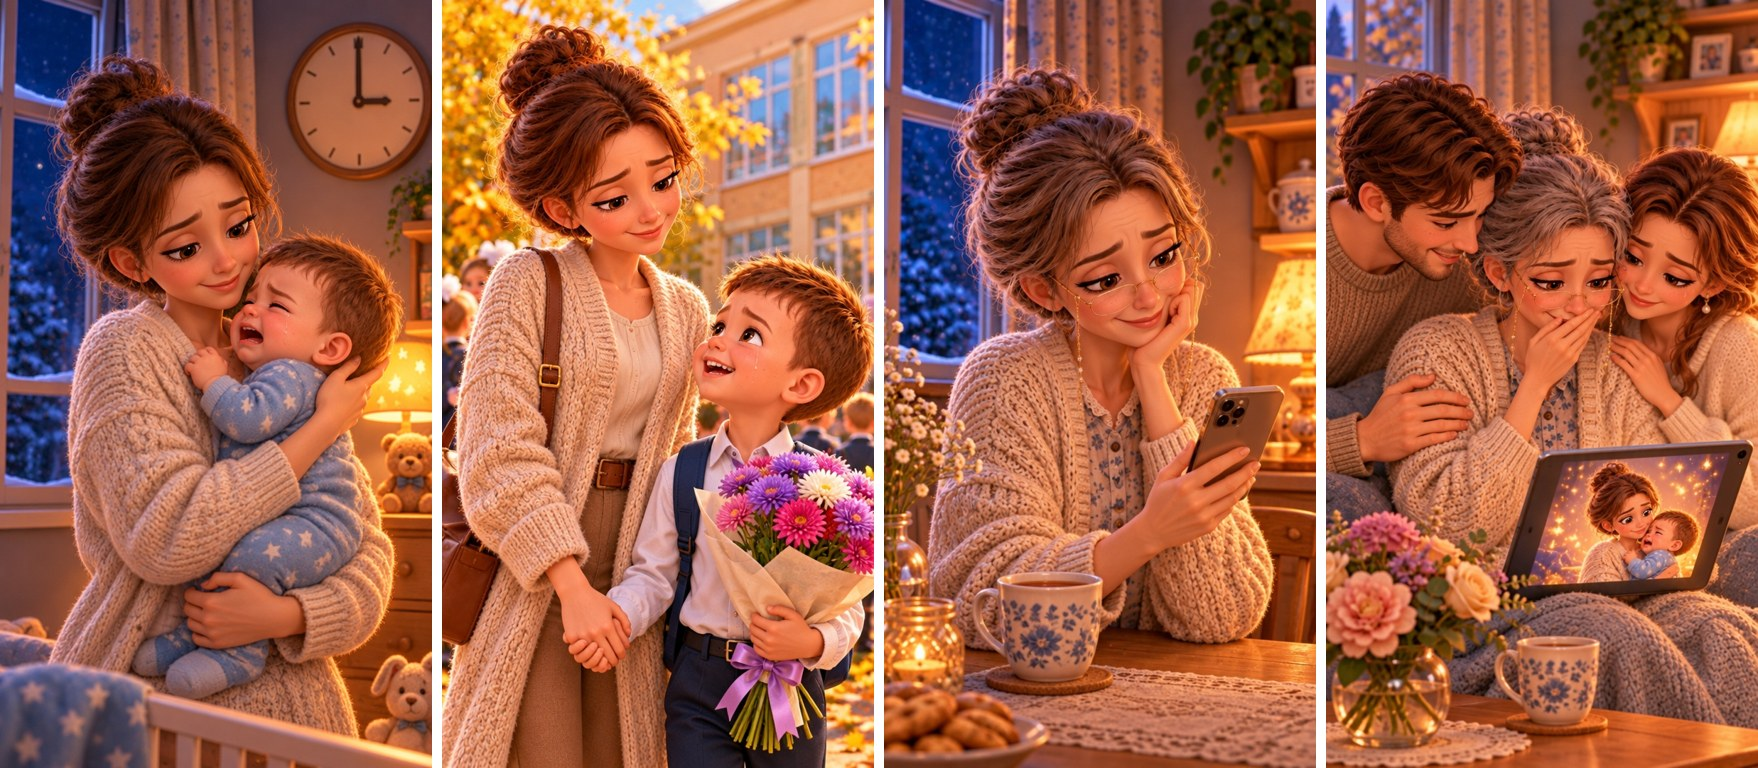
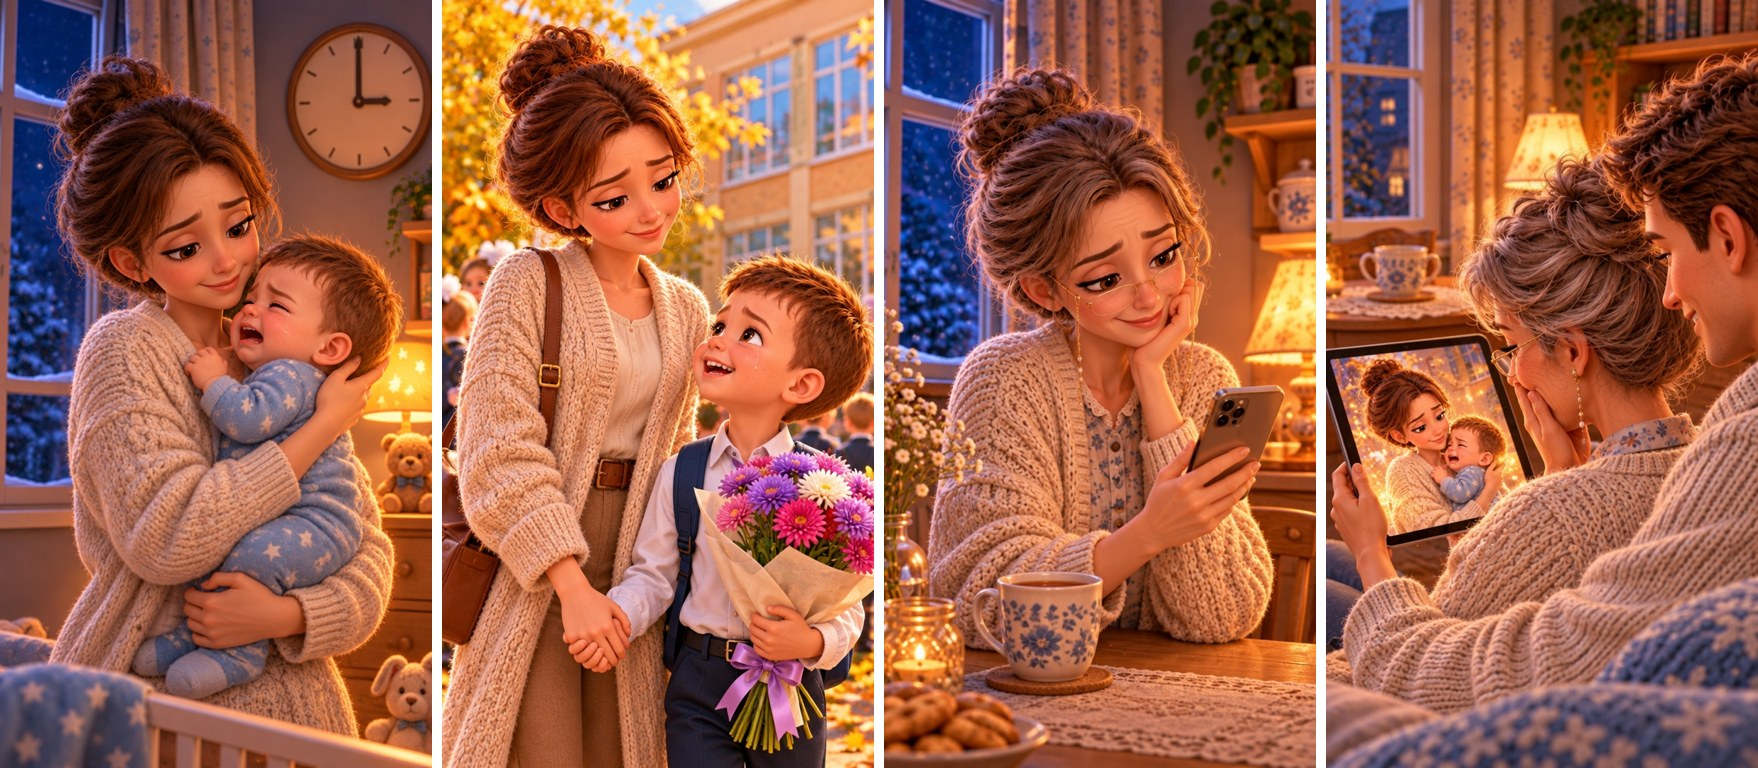
День матери: кадр 4 из-за плеча, только сын
Claude-Session: https://claude.ai/code/session_01TXwNN2je3RbbmpXYz6m2NX

Changed region(s): [[0.7372, 0.0, 1.0, 1.0]]

diff --git a/den-materi/kadry.py b/den-materi/kadry.py
@@ -13,12 +13,10 @@ S={
      "happy tears in her eyes. School building and yellow trees behind. ",
 "03":"Evening, cozy kitchen, the same mother but clearly OLDER, about 60: mostly silver-grey hair in a bun, visible wrinkles around eyes and mouth, reading glasses on a chain, sits alone by the window with a "
      "cup of tea, holding her phone, looking at it hopefully, waiting for a call. Soft melancholic warm light. ",
-"04":"Cozy living room decorated for a family celebration: the same mother clearly OLDER, about 60: mostly silver-grey hair in a bun, visible wrinkles, reading glasses on a chain, sits on the sofa watching a tablet "
-     "where an animated cartoon plays: on the screen is a cartoon of HER younger self holding a baby, surrounded by sparkles (no text). Late autumn, NO Christmas tree, NO New Year decorations, a bouquet of flowers on the table, she covers her mouth with her "
-     "hand, touched to happy tears; her grown-up son (about 30) and daughter (about 27) hug her from both sides, smiling. ",
+"04":"Cozy living room, late autumn evening. OVER-THE-SHOULDER shot from BEHIND the sofa: we see the back and side of the head of the same mother clearly OLDER, about 60 (mostly silver-grey hair in a bun, visible wrinkles, reading glasses on a chain) sits on the sofa and holds a tablet in both hands in front of her chest with the SCREEN FACING HER EYES (and therefore also facing the camera behind her); she LOOKS DOWN AT THE SCREEN; we see her face in profile (three-quarter from behind) and the screen clearly over her shoulder. On the screen an animated cartoon of HER younger self holding a baby, sparkles (no text). She covers her mouth with one hand, touched to happy tears. Her ONLY child, her grown-up son (about 30, the same boy as in image 2, now an adult with the same brown hair and face), sits beside her, hugs her shoulders and also looks at the screen, his face in profile, smiling. ONLY these two people in the frame, no daughter, no other people. NO Christmas tree, NO New Year decorations, a bouquet of flowers on the table. ",
 }
 def go(k, refs):
-    p=S[k]+MAMA+STIL+((" Image 1 shows the same woman: keep her face, hair and features identical (age her as described). " if refs else "")+" The last image is ONLY a render-quality and style reference (3D animated look), do not copy its content.")
+    p=S[k]+MAMA+STIL+((" Image 1 shows the same woman (for frame 4: image 2 shows her son as a child, image 3 the woman older): keep her face, hair and features identical (age her as described). " if refs else "")+" The last image is ONLY a render-quality and style reference (3D animated look), do not copy its content.")
     args={"prompt":p,"image_size":"portrait_16_9","quality":"medium","num_images":1,"output_format":"png"}
     refs=refs+["/home/user/5-/kartinki-dlya-sayta/poezd_05_maksim_mashinist.jpg"]
     args["image_urls"]=[fal_client.upload_file(r) for r in refs]; m=M
@@ -26,4 +24,4 @@ def go(k, refs):
     urllib.request.urlretrieve(r["images"][0]["url"],f"kadry/{k}.png"); print(k,"ok",flush=True)
 ks=sys.argv[1:]
 for k in ks:
-    go(k, [] if k=="01" else ["kadry/01.png"]+(["kadry/03.png"] if k=="04" else []))
+    go(k, [] if k=="01" else ["kadry/01.png"]+(["kadry/02.png","kadry/03.png"] if k=="04" else []))
